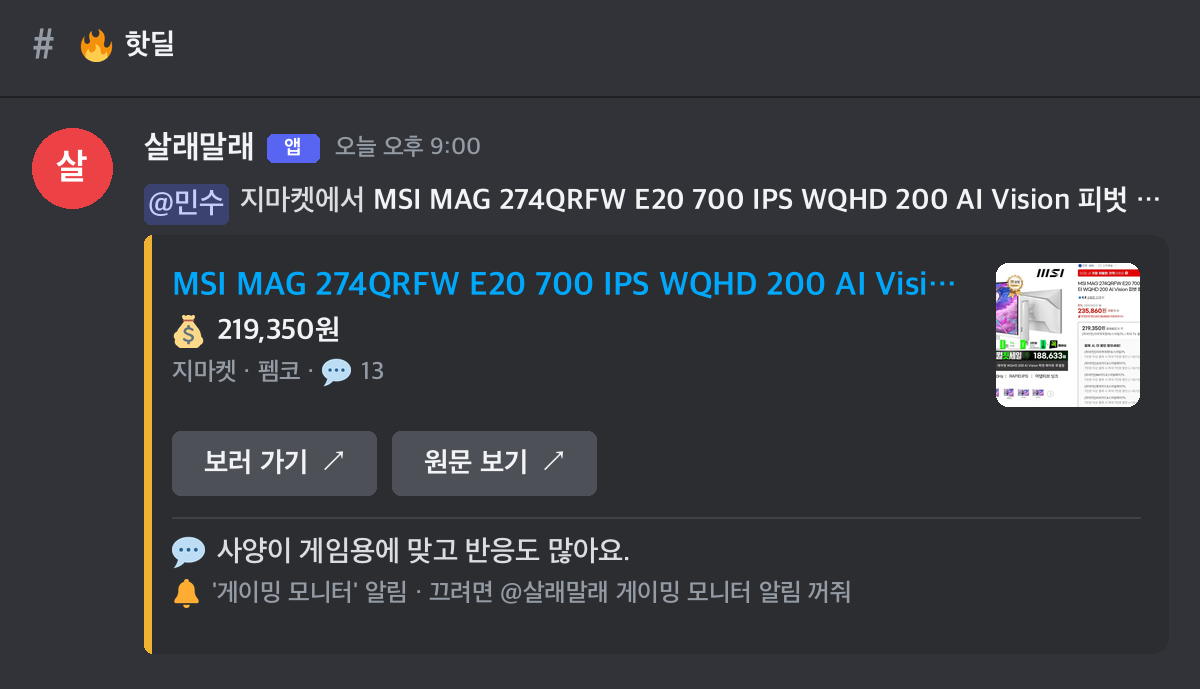
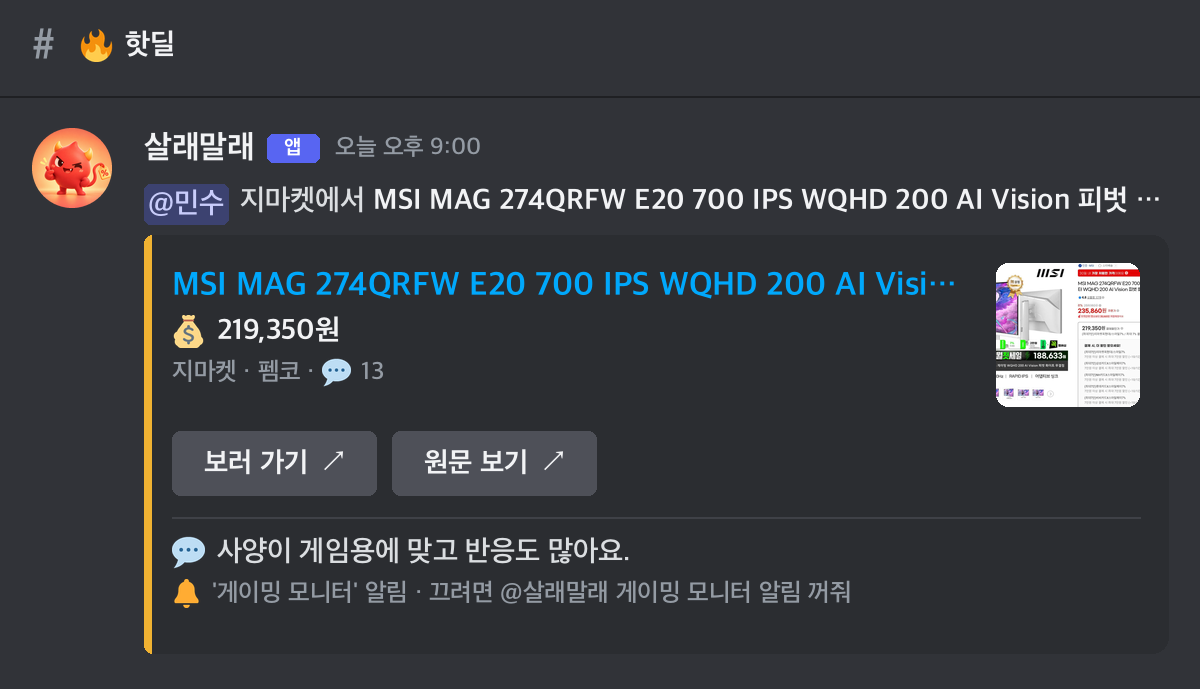
README 맨 위 캐릭터 로고, 카드 예시 속 봇 프로필을 캐릭터로, GitHub 공유 미리보기 이미지

Changed region(s): [[0.0308, 0.1829, 0.0925, 0.3048]]

diff --git a/docs/setup.md b/docs/setup.md
@@ -45,4 +45,6 @@ cp .env.example .env              # 토큰·채널 ID 채우기 (BOT_ENV=dev)
 
 **관심사를 명령어로:** `watch-add --owner <ID> --want "메가커피" --keywords 메가커피`, `watch-list`, `board`(고정 메시지 갱신).
 
+**GitHub 공유 미리보기:** 레포 Settings → General → Social preview에 `docs/images/social-preview.png`(1280×640)를 올립니다 (API로는 못 올림).
+
 **README 카드 그림:** `.venv/bin/pip install pillow && .venv/bin/python -m tools.readme_cards` — 지금 딜로 `docs/images/card-*.png`를 다시 만듭니다 (멘션은 가명).

diff --git a/README.md b/README.md
@@ -1,4 +1,6 @@
-# 살래말래
+<p align="center"><img src="docs/images/logo.png" width="160" alt="살래말래 캐릭터"></p>
+
+<h1 align="center">살래말래</h1>
 
 친구들 디스코드 핫딜 스레드에 **오늘의 인기 핫딜**을 골라 올리고, 친구들이 걸어둔 관심사에 맞는 딜이 뜨면 그 사람에게 알려 주는 봇입니다.
 
